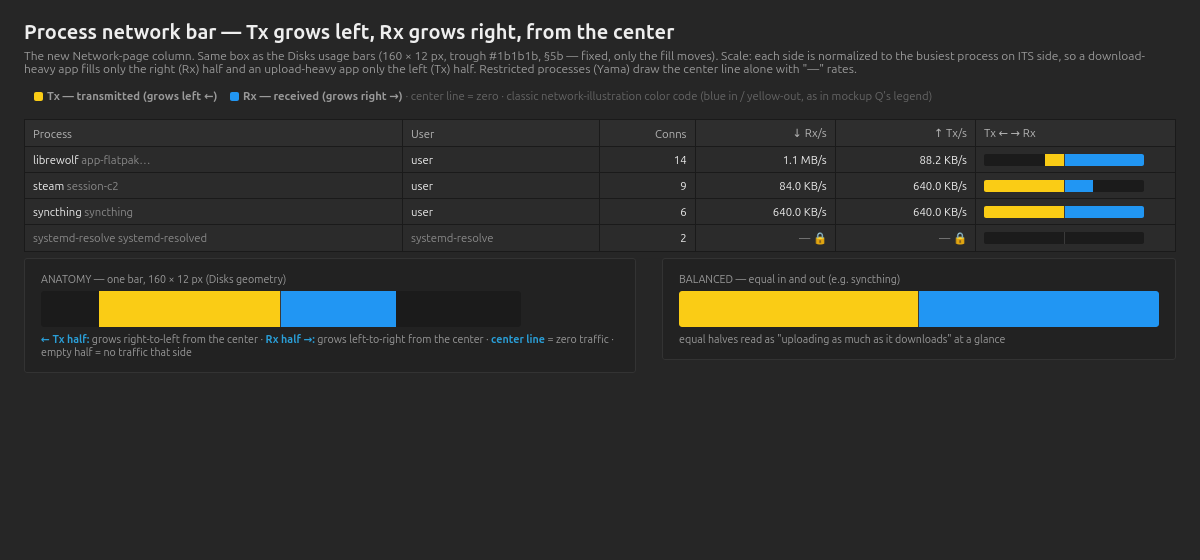
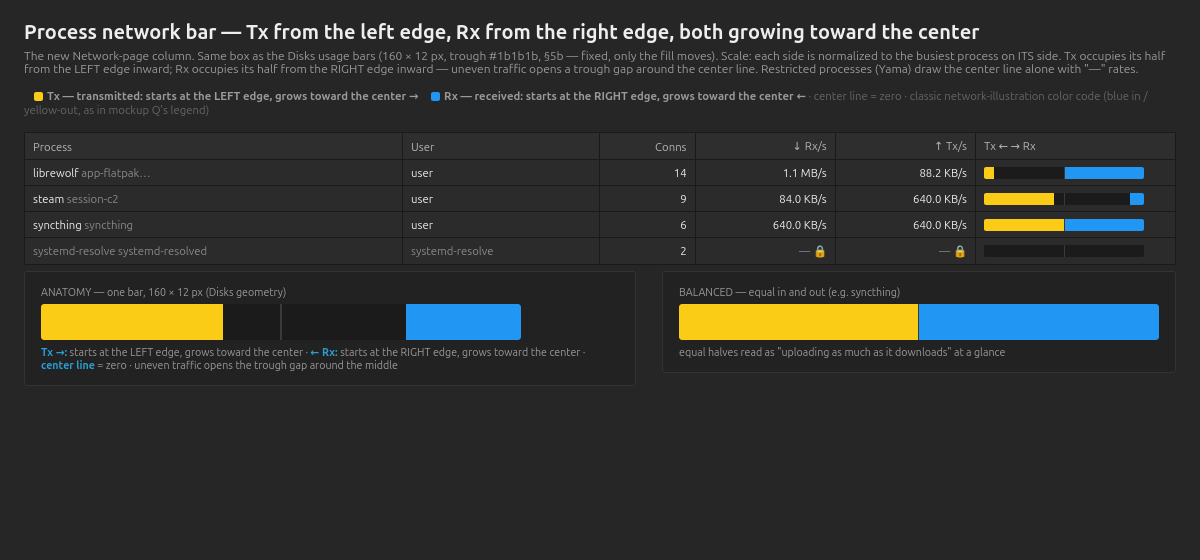
r125: mockup R re-anchored per operator — Tx grows from the LEFT edge toward center, Rx from the RIGHT edge toward center

diff --git a/docs/mockups/mockup-r-txrx-bar.html b/docs/mockups/mockup-r-txrx-bar.html
@@ -21,9 +21,9 @@
      to the busiest process on its side. */
   .txrx { width: 160px; height: 12px; background: #1b1b1b; border-radius: 2px;
           position: relative; overflow: hidden; }
-  .txrx .tx { position: absolute; right: 50%; top: 0; height: 12px;
+  .txrx .tx { position: absolute; left: 0; top: 0; height: 12px;
               background: #facc15; }
-  .txrx .rx { position: absolute; left: 50%; top: 0; height: 12px;
+  .txrx .rx { position: absolute; right: 0; top: 0; height: 12px;
               background: #2196f3; }
   .txrx .mid { position: absolute; left: calc(50% - 0.5px); top: 0;
                width: 1px; height: 12px; background: #3a3a3a; }
@@ -36,9 +36,9 @@
   .zoombox .cap { font-size: 8pt; color: #9a9a9a; margin-bottom: 6px; }
   .zoombar { width: 480px; height: 36px; background: #1b1b1b; border-radius: 3px;
              position: relative; overflow: hidden; }
-  .zoombar .tx { position: absolute; right: 50%; top: 0; height: 36px;
+  .zoombar .tx { position: absolute; left: 0; top: 0; height: 36px;
                  background: #facc15; }
-  .zoombar .rx { position: absolute; left: 50%; top: 0; height: 36px;
+  .zoombar .rx { position: absolute; right: 0; top: 0; height: 36px;
                  background: #2196f3; }
   .zoombar .mid { position: absolute; left: calc(50% - 1px); top: 0;
                   width: 2px; height: 36px; background: #3a3a3a; }
@@ -47,19 +47,20 @@
 </style>
 </head>
 <body>
-  <h2>Process network bar — Tx grows left, Rx grows right, from the center</h2>
+  <h2>Process network bar — Tx from the left edge, Rx from the right edge, both growing toward the center</h2>
   <div class="lead">The new Network-page column. Same box as the Disks usage
     bars (160 × 12 px, trough #1b1b1b, §5b — fixed, only the fill moves).
-    Scale: each side is normalized to the busiest process on ITS side, so a
-    download-heavy app fills only the right (Rx) half and an upload-heavy app
-    only the left (Tx) half. Restricted processes (Yama) draw the center line
-    alone with "—" rates.</div>
+    Scale: each side is normalized to the busiest process on ITS side.
+    Tx occupies its half from the LEFT edge inward; Rx occupies its half from
+    the RIGHT edge inward — uneven traffic opens a trough gap around the
+    center line. Restricted processes (Yama) draw the center line alone with
+    "—" rates.</div>
 
   <div class="legend">
-    <span class="dot" style="background:#facc15"></span><b>Tx — transmitted
-    (grows left ←)</b>
-    <span class="dot" style="background:#2196f3"></span><b>Rx — received
-    (grows right →)</b>
+    <span class="dot" style="background:#facc15"></span><b>Tx — transmitted:
+    starts at the LEFT edge, grows toward the center →</b>
+    <span class="dot" style="background:#2196f3"></span><b>Rx — received:
+    starts at the RIGHT edge, grows toward the center ←</b>
     <span style="color:#666">· center line = zero · classic network-illustration
     color code (blue in / yellow-out, as in mockup Q's legend)</span>
   </div>
@@ -72,15 +73,15 @@
         <td>user</td><td class="num">14</td>
         <td class="num">1.1 MB/s</td><td class="num">88.2 KB/s</td>
         <td><div class="txrx">
-          <div class="tx" style="width:12%"></div>
-          <div class="rx" style="width:100%"></div>
+          <div class="tx" style="width:6%"></div>
+          <div class="rx" style="width:50%"></div>
           <div class="mid"></div></div></td></tr>
     <tr><td>steam <span style="color:#8a8a8a">session-c2</span></td>
         <td>user</td><td class="num">9</td>
         <td class="num">84.0 KB/s</td><td class="num">640.0 KB/s</td>
         <td><div class="txrx">
-          <div class="tx" style="width:88%"></div>
-          <div class="rx" style="width:18%"></div>
+          <div class="tx" style="width:44%"></div>
+          <div class="rx" style="width:9%"></div>
           <div class="mid"></div></div></td></tr>
     <tr><td>syncthing <span style="color:#8a8a8a">syncthing</span></td>
         <td>user</td><td class="num">6</td>
@@ -103,9 +104,10 @@
         <div class="mid"></div>
         <div class="rx" style="width:24%"></div>
       </div>
-      <div class="callout"><b>← Tx half:</b> grows right-to-left from the
-        center · <b>Rx half →:</b> grows left-to-right from the center ·
-        <b>center line</b> = zero traffic · empty half = no traffic that side</div>
+      <div class="callout"><b>Tx →:</b> starts at the LEFT edge, grows toward
+        the center · <b>← Rx:</b> starts at the RIGHT edge, grows toward the
+        center · <b>center line</b> = zero · uneven traffic opens the trough
+        gap around the middle</div>
     </div>
     <div class="zoombox">
       <div class="cap">BALANCED — equal in and out (e.g. syncthing)</div>
